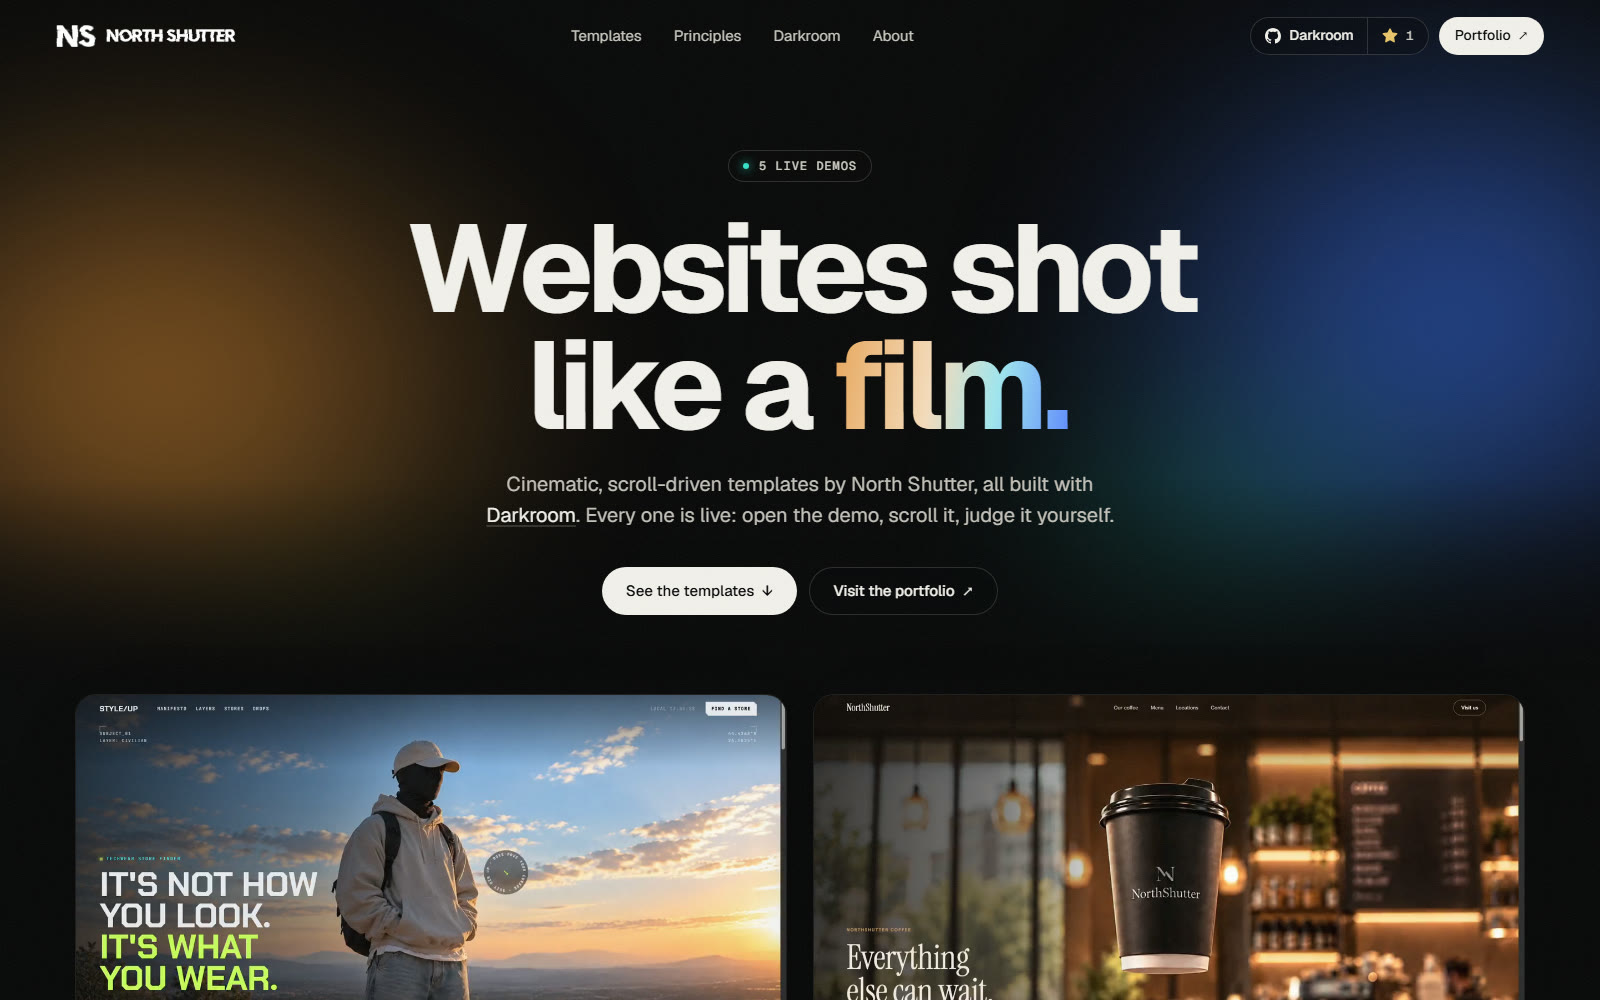
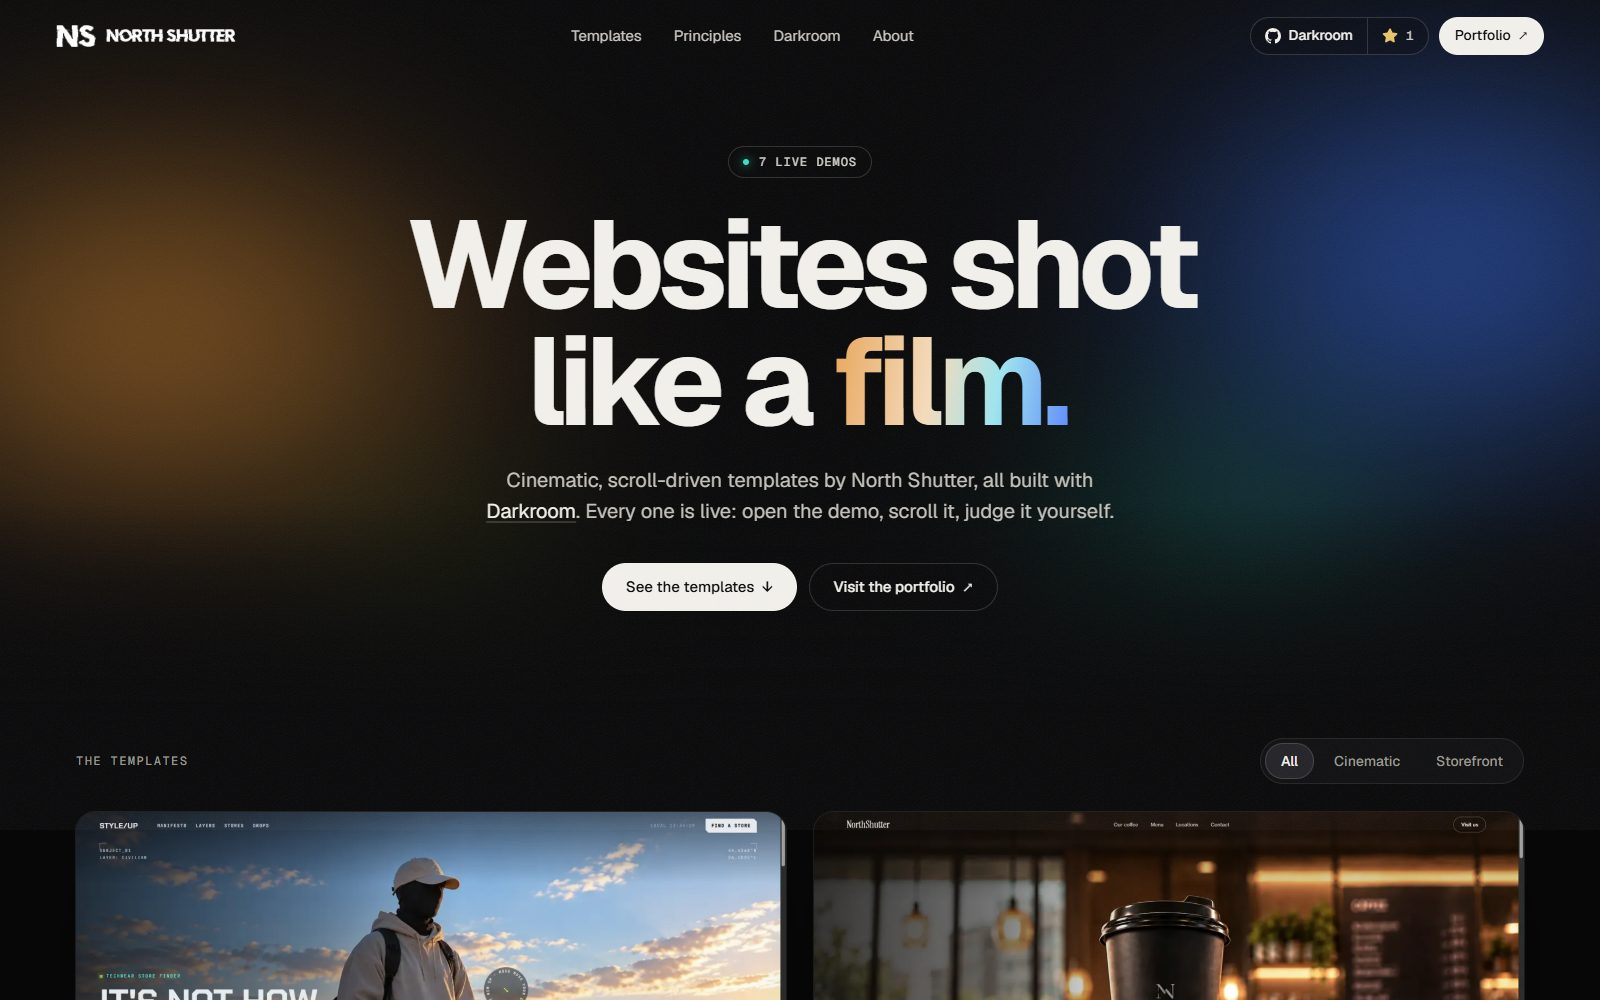
Darkroom 1.7.1: README lists all seven live demos
- Live demos: Style Up, Coffee Shop, Humming Bird, Nightwatch,
  Maison Solène, IRIS/09 and Little Gills, with a fresh showcase picture
  and thumbnails; fixes the links of the two renamed demos.
- Notes the showcase's Copy prompt button and the Assets button (in progress).
- VERSION, plugin.json and CHANGELOG at 1.7.1. No skill changes.

diff --git a/README.md b/README.md
@@ -7,8 +7,8 @@
 <h3 align="center">Type <code>/darkroom</code>. Say what you want.<br>Get a designed website, built on the platform you need.</h3>
 
 <p align="center">
-  <a href="https://alexandruiftimi-ns.github.io/darkroom-showcase/"><img alt="Live showcase: 5 demos" src="https://img.shields.io/badge/%E2%96%B6%20live%20showcase-5%20demos-ff7a3d?style=for-the-badge&labelColor=ff7a3d&color=121110"></a>
-  <a href="CHANGELOG.md"><img alt="Version 1.7.0, Smooth Scroll" src="https://img.shields.io/badge/version-1.7.0%20·%20Smooth%20Scroll-ff7a3d?style=for-the-badge&labelColor=121110"></a>
+  <a href="https://alexandruiftimi-ns.github.io/darkroom-showcase/"><img alt="Live showcase: 7 demos" src="https://img.shields.io/badge/%E2%96%B6%20live%20showcase-7%20demos-ff7a3d?style=for-the-badge&labelColor=ff7a3d&color=121110"></a>
+  <a href="CHANGELOG.md"><img alt="Version 1.7.1, Smooth Scroll" src="https://img.shields.io/badge/version-1.7.1%20·%20Smooth%20Scroll-ff7a3d?style=for-the-badge&labelColor=121110"></a>
   <a href="LICENSE"><img alt="MIT licence" src="https://img.shields.io/badge/licence-MIT-ff7a3d?style=for-the-badge&labelColor=121110"></a>
   <img alt="Claude Code skill" src="https://img.shields.io/badge/Claude%20Code-skill-ece6dc?style=for-the-badge&logo=anthropic&logoColor=ece6dc&labelColor=121110">
   <img alt="10 platforms" src="https://img.shields.io/badge/platforms-10-ff7a3d?style=for-the-badge&labelColor=121110">
@@ -71,24 +71,33 @@ Darkroom is a [Claude Code](https://claude.com/claude-code) skill that turns Cla
 ## 🌐 Live demos you can scroll
 
 <p align="center">
-  <a href="https://alexandruiftimi-ns.github.io/darkroom-showcase/"><img src="assets/showcase/showcase-preview.jpg" alt="The Darkroom showcase: five cinematic website templates, each with a live demo" width="100%"></a>
+  <a href="https://alexandruiftimi-ns.github.io/darkroom-showcase/"><img src="assets/showcase/showcase-preview.jpg" alt="The Darkroom showcase: seven website templates, each with a live demo and its build prompt" width="100%"></a>
 </p>
 
 <p align="center">
   <a href="https://alexandruiftimi-ns.github.io/darkroom-showcase/"><img alt="Open the live showcase" src="https://img.shields.io/badge/%E2%96%B6%20%20Open%20the%20live%20showcase-ff7a3d?style=for-the-badge&labelColor=ff7a3d"  height="44"></a>
 </p>
 
-<p align="center"><b>Five templates built with Darkroom, all live on free GitHub Pages hosting.</b><br><sub>No screenshots to trust: open any of them and scroll it yourself.</sub></p>
+<p align="center"><b>Seven templates built with Darkroom, all live on free GitHub Pages hosting.</b><br><sub>No screenshots to trust: open any of them and scroll it yourself.</sub></p>
 
 <table>
   <tr>
-    <td width="20%" align="center"><a href="https://alexandruiftimi-ns.github.io/darkroom-showcase/style-up/"><img src="assets/showcase/style-up.jpg" alt="Style Up live demo"></a><br><sub><b><a href="https://alexandruiftimi-ns.github.io/darkroom-showcase/style-up/">Style Up</a></b><br>Storefront · fashion</sub></td>
-    <td width="20%" align="center"><a href="https://alexandruiftimi-ns.github.io/darkroom-showcase/coffee-shop/"><img src="assets/showcase/coffee-shop.jpg" alt="Coffee Shop live demo"></a><br><sub><b><a href="https://alexandruiftimi-ns.github.io/darkroom-showcase/coffee-shop/">Coffee Shop</a></b><br>Storefront · café</sub></td>
-    <td width="20%" align="center"><a href="https://alexandruiftimi-ns.github.io/darkroom-showcase/humming-bird/"><img src="assets/showcase/humming-bird.jpg" alt="Humming Bird live demo"></a><br><sub><b><a href="https://alexandruiftimi-ns.github.io/darkroom-showcase/humming-bird/">Humming Bird</a></b><br>Cinematic · story</sub></td>
-    <td width="20%" align="center"><a href="https://alexandruiftimi-ns.github.io/darkroom-showcase/cyber-awareness/"><img src="assets/showcase/cyber-awareness.jpg" alt="Cyber Awareness live demo"></a><br><sub><b><a href="https://alexandruiftimi-ns.github.io/darkroom-showcase/cyber-awareness/">Cyber Awareness</a></b><br>Cinematic · education</sub></td>
-    <td width="20%" align="center"><a href="https://alexandruiftimi-ns.github.io/darkroom-showcase/mesa/"><img src="assets/showcase/maison-solene.jpg" alt="Mesa · Maison Solène live demo"></a><br><sub><b><a href="https://alexandruiftimi-ns.github.io/darkroom-showcase/mesa/">Mesa · Maison Solène</a></b><br>Cinematic · luxury</sub></td>
+    <td width="25%" align="center"><a href="https://alexandruiftimi-ns.github.io/darkroom-showcase/style-up/"><img src="assets/showcase/style-up.jpg" alt="Style Up live demo"></a><br><sub><b><a href="https://alexandruiftimi-ns.github.io/darkroom-showcase/style-up/">Style Up</a></b><br>Storefront · fashion</sub></td>
+    <td width="25%" align="center"><a href="https://alexandruiftimi-ns.github.io/darkroom-showcase/coffee-shop/"><img src="assets/showcase/coffee-shop.jpg" alt="Coffee Shop live demo"></a><br><sub><b><a href="https://alexandruiftimi-ns.github.io/darkroom-showcase/coffee-shop/">Coffee Shop</a></b><br>Storefront · café</sub></td>
+    <td width="25%" align="center"><a href="https://alexandruiftimi-ns.github.io/darkroom-showcase/humming-bird/"><img src="assets/showcase/humming-bird.jpg" alt="Humming Bird live demo"></a><br><sub><b><a href="https://alexandruiftimi-ns.github.io/darkroom-showcase/humming-bird/">Humming Bird</a></b><br>Cinematic · story</sub></td>
+    <td width="25%" align="center"><a href="https://alexandruiftimi-ns.github.io/darkroom-showcase/nightwatch/"><img src="assets/showcase/nightwatch.jpg" alt="Nightwatch live demo"></a><br><sub><b><a href="https://alexandruiftimi-ns.github.io/darkroom-showcase/nightwatch/">Nightwatch</a></b><br>Cinematic · education</sub></td>
+  </tr>
+  <tr>
+    <td width="25%" align="center"><a href="https://alexandruiftimi-ns.github.io/darkroom-showcase/maison-solene/"><img src="assets/showcase/maison-solene.jpg" alt="Maison Solène live demo"></a><br><sub><b><a href="https://alexandruiftimi-ns.github.io/darkroom-showcase/maison-solene/">Maison Solène</a></b><br>Cinematic · luxury</sub></td>
+    <td width="25%" align="center"><a href="https://alexandruiftimi-ns.github.io/darkroom-showcase/iris/"><img src="assets/showcase/iris.jpg" alt="IRIS/09 live demo"></a><br><sub><b><a href="https://alexandruiftimi-ns.github.io/darkroom-showcase/iris/">IRIS/09</a></b><br>Cinematic · WebGL</sub></td>
+    <td width="25%" align="center"><a href="https://alexandruiftimi-ns.github.io/darkroom-showcase/little-gills/"><img src="assets/showcase/little-gills.jpg" alt="Little Gills live demo"></a><br><sub><b><a href="https://alexandruiftimi-ns.github.io/darkroom-showcase/little-gills/">Little Gills</a></b><br>Storefront · aquariums</sub></td>
   </tr>
 </table>
+
+> [!TIP]
+> **Take the prompt behind a demo.** Each card on the showcase has a **Copy prompt** button. It copies the full build prompt for that template: the slots for your own photos and video, every design value, the copy and the checks to run. Paste it into your coding agent and swap in your own media. Five templates have one so far (Style Up, Coffee Shop, Maison Solène, IRIS/09, Little Gills); on the others the button says the prompt is not available yet.
+>
+> **Assets are still in progress.** The **Assets** button will hand you the media for each template. It is not ready yet, so for now it tells you the files are on the way.
 
 ---
 

diff --git a/CHANGELOG.md b/CHANGELOG.md
@@ -4,6 +4,17 @@ Darkroom uses [semantic versioning](https://semver.org): **major.minor.patch**.
 A **major** change breaks how projects or commands worked before, a **minor** one adds features, a **patch** fixes things.
 The installed version: `node ~/.claude/skills/darkroom/scripts/darkroom.mjs version` (or the `VERSION` file in the skill).
 
+## 1.7.1 · Smooth Scroll · 2026-10-30
+
+A fix for the README: the live showcase had grown and moved on, and the page still described the old one.
+
+- **All seven live demos listed.** The README now shows Style Up, Coffee Shop, Humming Bird, Nightwatch, Maison Solène, IRIS/09 and Little Gills, each linking to its demo, with a fresh showcase picture.
+- **Fixed broken demo links.** Two templates were renamed (Cyber Awareness is now Nightwatch, Mesa is now Maison Solène), so their old links in the README led nowhere.
+- **Copy the prompt behind a demo.** The showcase cards now have a Copy prompt button that copies the full build prompt for that template, ready to paste into your coding agent with your own media. Five templates have one so far.
+- **Assets: in progress.** Each card also has an Assets button for the template's media. The media isn't ready yet; the button says so for now.
+
+No changes to the skill itself.
+
 ## 1.7.0 · Smooth Scroll · 2026-10-29
 
 Scroll films now stay smooth on phones, even on a fast flick or when you scroll back up, and the preview updates by itself while Darkroom works. Darkroom also learned from a review of 102 AI-made motion websites: what makes them good, and what makes them look like every other AI site.
